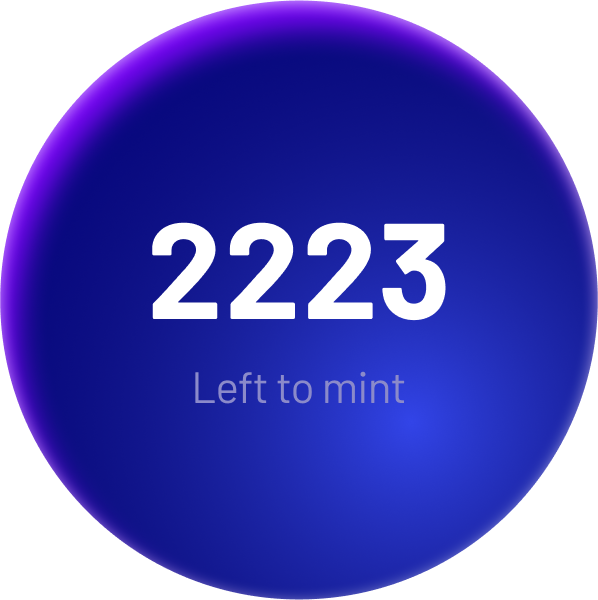
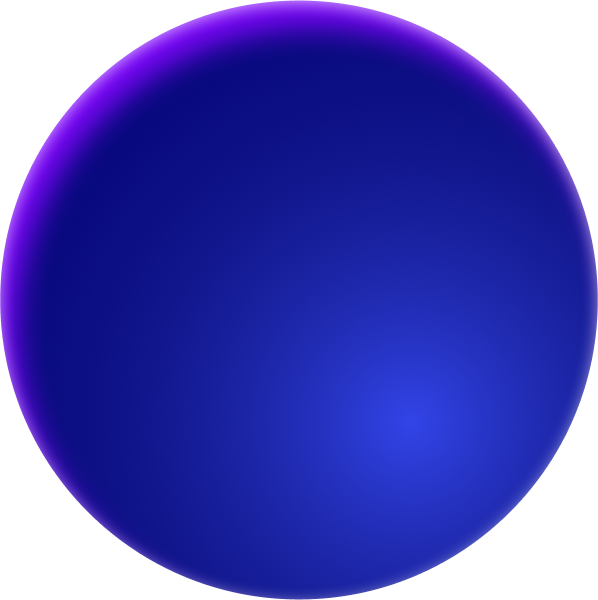
Change balls

Changed region(s): [[0.2408, 0.36, 0.7525, 0.54], [0.3311, 0.6, 0.6923, 0.69], [0.301, 0.63, 0.3311, 0.66]]

diff --git a/src/components/OurCollection/index.tsx b/src/components/OurCollection/index.tsx
@@ -24,15 +24,82 @@ const OurCollection = () => {
                 </div>
                 <div className="col-lg-6 position-relative balls-collection text-center">
 
+                    <div className=" blob ball-top">
+                        <div className="bubble-text">
+                            <h4>0.75 <span>EGLD</span></h4>
+                            <h5>Minting Price</h5>
+                        </div>
+                        <img className="img-fluid" src="/ball-top.svg" alt="bubbles"/>
+                    </div>
+                    <div className=" blob ball-bottom">
+                        <div className="bubble-text">
+                            <h4>1110</h4>
+                            <h5>Items in Collection</h5>
+                        </div>
 
-                    <img className="img-fluid blob ball-top" src="/ball-top.svg" alt="bubbles"/>
-                    <img className="img-fluid blob ball-bottom" src="/ball-bottom.svg" alt="bubbles"/>
-                    <img className="img-fluid blob ball-left" src="/ball-left.png" alt="bubbles"/>
-                    <img className="img-fluid blob ball-right" src="/ball-right.png" alt="bubbles"/>
+                        <img className="img-fluid" src="/ball-bottom.svg" alt="bubbles"/>
+                    </div>
+                    <div className=" blob ball-left">
+                        <div className="bubble-text">
+                            <h4>2223</h4>
+                            <h5>Left to mint</h5>
+                        </div>
+                        <img className="img-fluid" src="/ball-left.png" alt="bubbles"/>
+                    </div>
+                    <div className=" blob ball-right">
+                        <div className="bubble-text">
+                            <h4>3333</h4>
+                            <h5>Total Supply</h5>
+                        </div>
+
+                        <img className="img-fluid" src="/ball-right.png" alt="bubbles"/>
+                    </div>
 
 
+                    <div className="balls-mobile">
+                        <div className="row d-flex d-md-none">
+                            <div className="col-6">
+                                <div className="wrap-ball-mobile ballm-1">
+                                    <div className="wrap-text-mobile">
+                                        <h4>0.75 <span>EGLD</span></h4>
+                                        <h5>Minting Price</h5>
+                                    </div>
 
-                    <img className="img-fluid d-block d-md-none" src="/balls-grouped.png" alt="bubbles"/>
+                                    <img className="img-fluid" src="/ball-left.png" alt="bubbles"/>
+                                </div>
+                            </div>
+                            <div className="col-6">
+                                <div className="wrap-ball-mobile ballm-2">
+                                    <div className="wrap-text-mobile">
+                                        <h4>1110</h4>
+                                        <h5>Items in Collection</h5>
+                                    </div>
+
+                                    <img className="img-fluid" src="/ball-left.png" alt="bubbles"/>
+                                </div>
+                            </div>
+                            <div className="col-6">
+                                <div className="wrap-ball-mobile ballm-3">
+                                    <div className="wrap-text-mobile">
+                                        <h4>2223</h4>
+                                        <h5>Left to mint</h5>
+                                    </div>
+
+                                    <img className="img-fluid" src="/ball-left.png" alt="bubbles"/>
+                                </div>
+                            </div>
+                            <div className="col-6">
+                                <div className="wrap-ball-mobile ballm-4">
+                                    <div className="wrap-text-mobile">
+                                        <h4>3333</h4>
+                                        <h5>Total Supply</h5>
+                                    </div>
+
+                                    <img className="img-fluid" src="/ball-left.png" alt="bubbles"/>
+                                </div>
+                            </div>
+                        </div>
+                    </div>
                 </div>
             </div>
         </div>

diff --git a/src/assets/sass/banner.scss b/src/assets/sass/banner.scss
@@ -54,6 +54,40 @@
 .our-collection .btn-main{
   margin-right: 16px;
 }
+.bubble-text{
+  position: absolute;
+  left:50%;
+  top:50%;
+  transform:translate(-50%,-50%);
+  width: 100%;
+}
+.blob h4,
+.wrap-ball-mobile h4{
+  font-family: 'Barlow', sans-serif;
+  font-weight: 700 !important;
+  font-size: 54px;
+  color: white;
+  line-height: 1;
+}
+.blob h4 span,
+.wrap-ball-mobile h4 span{
+  font-family: 'Barlow', sans-serif;
+  font-weight: 400 !important;
+  font-size: 34px;
+  color: white;
+  display: inline-block;
+  line-height: 1;
+  margin-bottom: 4px;
+}
+.blob h5,
+.wrap-ball-mobile h5{
+  font-family: 'Barlow', sans-serif;
+  font-weight: 400 !important;
+  font-size: 22px;
+  color: #8B8ACA;
+  line-height: 1;
+  margin-bottom: 0;
+}
 
 .ball-top{
   position: absolute;
@@ -78,9 +112,38 @@
   top: 31%;
   width: 39%;
 }
+.wrap-ball-mobile{
+  position: relative;
+  //animation: pulse-black 3s infinite;
+}
+.wrap-text-mobile{
+  position: absolute;
+  left:50%;
+  top:50%;
+  transform:translate(-50%,-50%);
+  width: 100%;
+}
+.balls-mobile .col-6{
+  margin-bottom: 30px;
+}
+.balls-mobile{
+  padding: 0 20px;
+}
+
 @media screen and (min-width: 1200px){
   .wrapper-bubbles{
     padding-bottom: 100px;
+  }
+}
+@media screen and (max-width: 1400px){
+  .blob h4{
+    font-size: 42px;
+  }
+  .blob h4 span{
+    font-size: 24px;
+  }
+  .blob h5{
+    font-size: 18px;
   }
 }
 @media screen and (max-width: 1200px){
@@ -132,24 +195,28 @@
 }
 
 
-.blob {
+.blob,
+.ballm-1{
   transform: scale(1);
   animation: pulse-black 3s infinite;
   border-radius: 50%;
   transition: 0.3s all ease-in-out;
   cursor: pointer;
 }
-.blob.ball-top {
+.blob.ball-top,
+.ballm-2{
   transform: scale(1);
   animation: pulse-black 3s infinite;
   animation-delay: 0.3s;
 }
-.blob.ball-bottom {
+.blob.ball-bottom,
+.ballm-3{
   transform: scale(1);
   animation: pulse-black 3s infinite;
   animation-delay: 0.5s;
 }
-.blob.ball-left {
+.blob.ball-left,
+.ballm-4{
   transform: scale(1);
   animation: pulse-black 3s infinite;
   animation-delay: 0.7s;
@@ -227,5 +294,17 @@
 @media screen and (max-width: 576px){
   .our-collection .btn-main{
     margin-bottom: 10px;
+  }
+  .balls-mobile {
+    padding: 0;
+  }
+  .wrap-ball-mobile h4{
+    font-size:30px;
+  }
+  .wrap-ball-mobile h4 span{
+    font-size: 20px;
+  }
+  .wrap-ball-mobile h5{
+    font-size: 18px;
   }
 }
